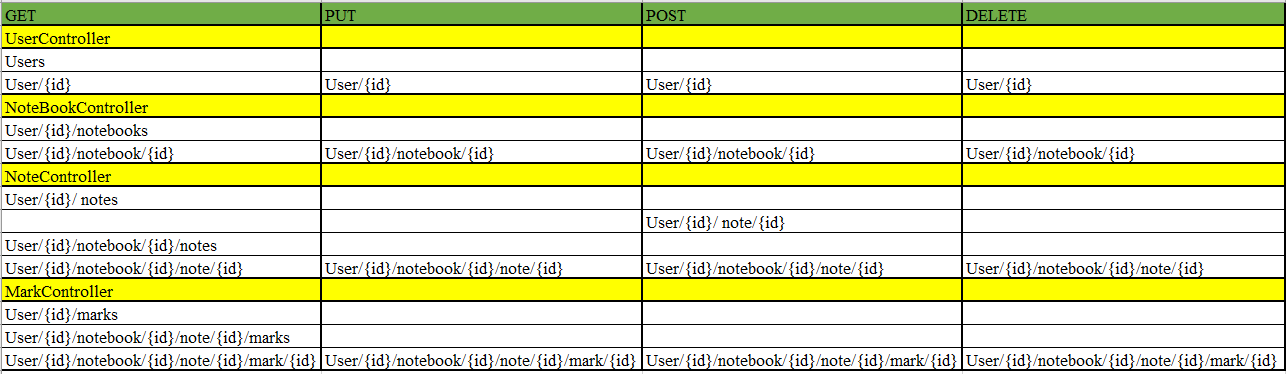
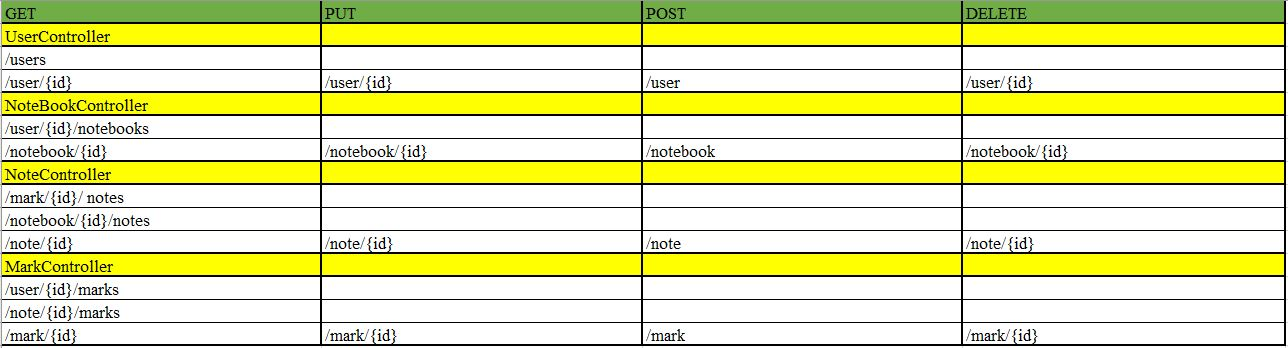
Add note controller.

diff --git a/src/main/java/com/epam/controllers/NoteController.java b/src/main/java/com/epam/controllers/NoteController.java
@@ -1,5 +1,108 @@
 package com.epam.controllers;
 
+import com.epam.controllers.ControllerModels.NoteModel;
+import com.epam.controllers.controllerMap.NoteTransformer;
+import com.epam.models.MarkDto;
+import com.epam.models.NoteBookDto;
+import com.epam.models.NoteDto;
+import com.epam.models.UserDto;
+import com.epam.services.MarkService;
+import com.epam.services.NoteBookService;
+import com.epam.services.NoteService;
+import com.epam.services.UserService;
+import org.springframework.beans.factory.annotation.Autowired;
+import org.springframework.http.HttpStatus;
+import org.springframework.http.ResponseEntity;
+import org.springframework.stereotype.Controller;
+import org.springframework.web.bind.annotation.DeleteMapping;
+import org.springframework.web.bind.annotation.GetMapping;
+import org.springframework.web.bind.annotation.PathVariable;
+import org.springframework.web.bind.annotation.PostMapping;
+import org.springframework.web.bind.annotation.PutMapping;
+import org.springframework.web.bind.annotation.RequestBody;
+
+import java.util.ArrayList;
+import java.util.List;
+
+@Controller
 public class NoteController {
-    //TODO for Ilya
+    @Autowired
+    private NoteService noteService;
+    @Autowired
+    private MarkService markService;
+    @Autowired
+    private UserService userService;
+    @Autowired
+    private NoteBookService notebookService;
+    @Autowired
+    private NoteTransformer noteTransformer;
+
+
+    @PostMapping(value = "/note")
+    public ResponseEntity<NoteModel> saveNote(@RequestBody NoteModel noteModel) {
+        return new ResponseEntity<>(noteTransformer
+                .unbind(noteService.
+                        save(noteTransformer
+                                .bind(noteModel))),
+                HttpStatus.OK);
+    }
+
+    @GetMapping(value = "/note/{id}")
+    public ResponseEntity<NoteModel> getNoteById(@PathVariable("id") Long id) {
+        NoteDto noteDto = noteService.read(id);
+        if (noteDto == null) {
+            throw new IllegalArgumentException("Bad note id " + id);
+        }
+        NoteModel noteModel = noteTransformer.unbind(noteDto);
+        return new ResponseEntity<>(noteModel, HttpStatus.OK);
+    }
+
+    @GetMapping(value = "/mark/{id}/notes")
+    public ResponseEntity<List<NoteModel>> getNotesByUser(@PathVariable("id") Long id) {
+        MarkDto markDto = markService.read(id);
+        if (markDto == null) {
+            throw new IllegalArgumentException("Bad mark id " + id);
+        }
+        List<NoteModel> noteModels = new ArrayList<>();
+        for (NoteDto noteDto : noteService.getByMark(markDto)) {
+            noteModels.add(noteTransformer.unbind(noteDto));
+        }
+        return new ResponseEntity<>(noteModels, HttpStatus.OK);
+    }
+
+    @GetMapping(value = "/notebook/{id}/notes")
+    public ResponseEntity<List<NoteModel>> getNotesByNotebook(@PathVariable("id") Long id) {
+        NoteBookDto notebookDto = notebookService.read(id);
+        if (notebookDto == null) {
+            throw new IllegalArgumentException("Bad notebook id " + id);
+        }
+        List<NoteModel> noteModels = new ArrayList<>();
+        for (NoteDto noteDto : noteService.getAllByNoteBook(notebookDto)) {
+            noteModels.add(noteTransformer.unbind(noteDto));
+        }
+        return new ResponseEntity<>(noteModels, HttpStatus.OK);
+    }
+
+    @PutMapping(value = "/note/{id}")
+    public ResponseEntity<NoteModel> updateNote(@PathVariable("id") Long id,
+                                                @RequestBody NoteModel noteModel) {
+        NoteDto noteDto = noteService.read(id);
+        if (noteDto == null) {
+            throw new IllegalArgumentException("Bad note id " + id);
+        }
+        noteDto = noteTransformer.bind(noteModel);
+        return new ResponseEntity<>(noteTransformer
+                .unbind(noteService
+                        .update(noteDto)),
+                HttpStatus.OK);
+    }
+
+    @DeleteMapping(value = "/note/{id}")
+    public void deleteNoteById(@PathVariable("id") Long id) {
+        NoteDto noteDto = noteService.read(id);
+        if (noteDto == null) {
+            throw new IllegalArgumentException("Bad note id " + id);
+        }
+        noteService.delete(noteDto);
+    }
 }

diff --git a/src/main/java/com/epam/controllers/NoteBookController.java b/src/main/java/com/epam/controllers/NoteBookController.java
@@ -1,8 +1,87 @@
 package com.epam.controllers;
 
+import com.epam.controllers.ControllerModels.NoteBookModel;
+import com.epam.controllers.controllerMap.NoteBookTransformer;
+import com.epam.models.NoteBookDto;
+import com.epam.models.UserDto;
+import com.epam.services.NoteBookService;
+import com.epam.services.UserService;
+import org.springframework.beans.factory.annotation.Autowired;
+import org.springframework.http.HttpStatus;
+import org.springframework.http.ResponseEntity;
 import org.springframework.stereotype.Controller;
+import org.springframework.web.bind.annotation.DeleteMapping;
+import org.springframework.web.bind.annotation.GetMapping;
+import org.springframework.web.bind.annotation.PathVariable;
+import org.springframework.web.bind.annotation.PostMapping;
+import org.springframework.web.bind.annotation.PutMapping;
+import org.springframework.web.bind.annotation.RequestBody;
+
+import java.util.ArrayList;
+import java.util.List;
 
 @Controller
 public class NoteBookController {
+    @Autowired
+    private NoteBookService notebookService;
+    @Autowired
+    private UserService userService;
+    @Autowired
+    private NoteBookTransformer notebookTransformer;
+
+    @PostMapping(value = "/notebook")
+    public ResponseEntity<NoteBookModel> saveNoteBook(@RequestBody NoteBookModel notebookModel) {
+        return new ResponseEntity<>(notebookTransformer
+                .unbind(notebookService.
+                        save(notebookTransformer
+                                .bind(notebookModel))),
+                HttpStatus.OK);
+    }
+
+    @GetMapping(value = "/notebook/{id}")
+    public ResponseEntity<NoteBookModel> getNotebookById(@PathVariable("id") Long id) {
+        NoteBookDto notebookDto = notebookService.read(id);
+        if (notebookDto == null) {
+            throw new IllegalArgumentException("Bad notebook id " + id);
+        }
+        NoteBookModel notebookModel = notebookTransformer.unbind(notebookDto);
+        return new ResponseEntity<>(notebookModel, HttpStatus.OK);
+    }
+
+    @GetMapping(value = "/user/{id}/notebooks")
+    public ResponseEntity<List<NoteBookModel>> getNotesbooksByUser(@PathVariable("id") Long id) {
+        UserDto userDto = userService.read(id);
+        if (userDto == null) {
+            throw new IllegalArgumentException("Bad user id " + id);
+        }
+        List<NoteBookModel> notebookModels = new ArrayList<>();
+        for (NoteBookDto notebookDto : notebookService.getAllByUser(userDto)) {
+            notebookModels.add(notebookTransformer.unbind(notebookDto));
+        }
+        return new ResponseEntity<>(notebookModels, HttpStatus.OK);
+    }
+
+    @PutMapping(value = "/notebook/{id}")
+    public ResponseEntity<NoteBookModel> updateNoteBook(@PathVariable("id") Long id,
+                                                        @RequestBody NoteBookModel notebookModel) {
+        NoteBookDto notebookDto = notebookService.read(id);
+        if (notebookDto == null) {
+            throw new IllegalArgumentException("Bad notebook id " + id);
+        }
+        notebookDto = notebookTransformer.bind(notebookModel);
+        return new ResponseEntity<>(notebookTransformer
+                .unbind(notebookService
+                        .update(notebookDto)),
+                HttpStatus.OK);
+    }
+
+    @DeleteMapping(value = "/notebook/{id}")
+    public void deleteNoteBookById(@PathVariable("id") Long id) {
+        NoteBookDto notebookDto = notebookService.read(id);
+        if (notebookDto == null) {
+            throw new IllegalArgumentException("Bad mark id " + id);
+        }
+        notebookService.delete(notebookDto);
+    }
 
 }

diff --git a/src/main/java/com/epam/controllers/MarkController.java b/src/main/java/com/epam/controllers/MarkController.java
@@ -53,7 +53,7 @@ public class MarkController {
     }
 
     @GetMapping(value = "/user/{id}/marks")
-    public ResponseEntity<List<MarkModel>> getAllMarkByUser(@PathVariable("id") Long id) {
+    public ResponseEntity<List<MarkModel>> getMarksByUser(@PathVariable("id") Long id) {
         UserDto userDto = userService.read(id);
         if (userDto == null) {
             throw new IllegalArgumentException("Bad user id " + id);
@@ -66,7 +66,7 @@ public class MarkController {
     }
 
     @GetMapping(value = "/note/{id}/marks")
-    public ResponseEntity<List<MarkModel>> getAllByNote(@PathVariable("id") Long id) {
+    public ResponseEntity<List<MarkModel>> getMarksByNote(@PathVariable("id") Long id) {
         NoteDto noteDto = noteService.read(id);
         if (noteDto == null) {
             throw new IllegalArgumentException("Bad note id " + id);

diff --git a/src/main/java/com/epam/controllers/UserController.java b/src/main/java/com/epam/controllers/UserController.java
@@ -45,7 +45,7 @@ public class UserController {
     }
 
     @GetMapping(value = "/users")
-    public ResponseEntity<List<UserModel>> getAllUsers() {
+    public ResponseEntity<List<UserModel>> getUsers() {
         List<UserModel> userModels = new ArrayList<>();
         for (UserDto userDto : userService.getAll()) {
             userModels.add(userTransformer.unbind(userDto));
